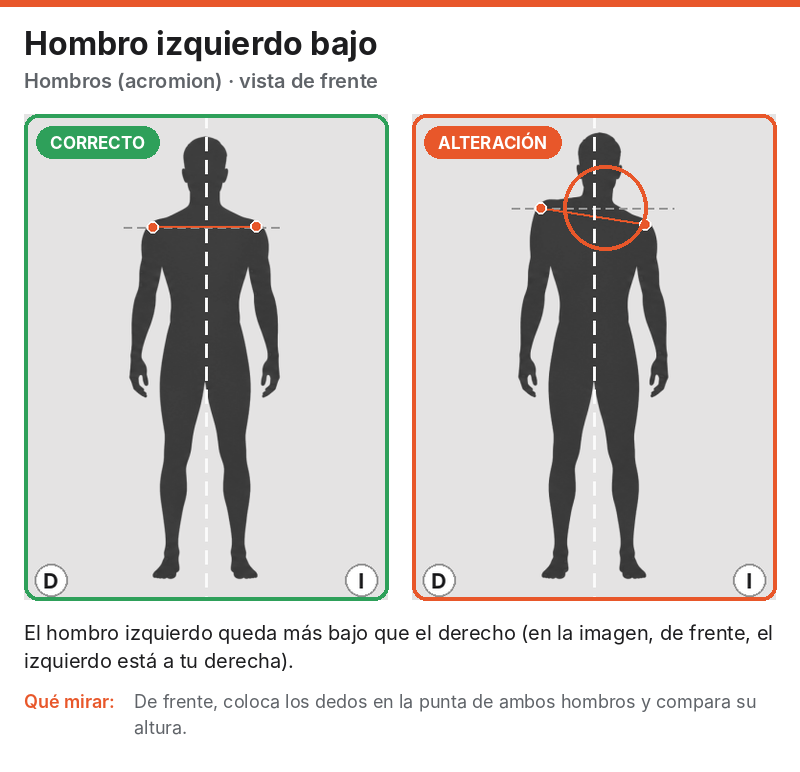
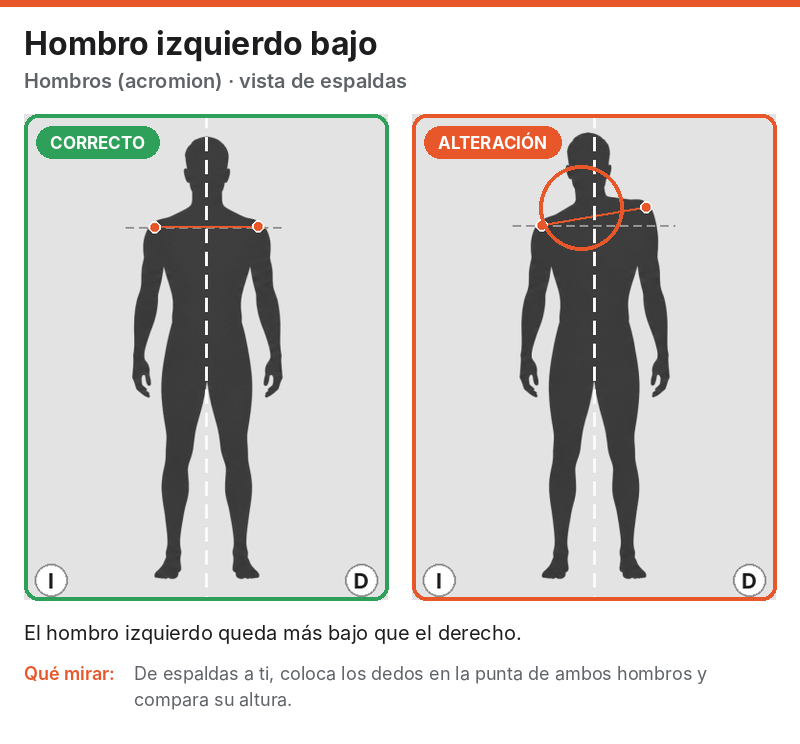
Postural: GIFs de acromion y crestas en vista de espaldas (lado correcto)
Claude-Session: https://claude.ai/code/session_013ryJL4SVr4tgtiY5hLj1jK

diff --git a/index.html b/index.html
@@ -83,7 +83,7 @@
     <p class="portada-lema">Evalúa tu punto de partida. Mide tu cambio.</p>
     <div class="portada-cta">
       <a class="btn" href="modules/antropometria/index.html">Evaluación antropométrica</a>
-      <a class="btn ghost" href="modules/postural/index.html?v=202611130400">Evaluación postural</a>
+      <a class="btn ghost" href="modules/postural/index.html?v=202611130450">Evaluación postural</a>
     </div>
     <a class="desliza" href="#panel" aria-label="Ver tu panel">
       <span>Tu panel</span>
@@ -116,7 +116,7 @@
         <div id="antro"></div>
       </section>
       <section>
-        <div class="sec-head"><h2>Postura</h2><a href="modules/postural/index.html?v=202611130400">Repetir test →</a></div>
+        <div class="sec-head"><h2>Postura</h2><a href="modules/postural/index.html?v=202611130450">Repetir test →</a></div>
         <div id="postural"></div>
       </section>
     </div>
@@ -269,7 +269,7 @@
     }
     post.sort((a, b) => new Date(a.fecha) - new Date(b.fecha));
     if (!post.length) {
-      $("#postural").innerHTML = vacio("Haz la evaluación postural para conocer tus desequilibrios y seguir cómo los corriges.", "modules/postural/index.html?v=202611130400", "Hacer evaluación");
+      $("#postural").innerHTML = vacio("Haz la evaluación postural para conocer tus desequilibrios y seguir cómo los corriges.", "modules/postural/index.html?v=202611130450", "Hacer evaluación");
     } else {
       const primero = post[0], ultimo = post.at(-1);
       const nivel = ultimo.nota >= 7 ? 2 : ultimo.nota >= 5 ? 1 : 0;

diff --git a/modules/postural/postural.js b/modules/postural/postural.js
@@ -1,4 +1,4 @@
-import { SECTIONS, SIDES, ALL_ZONES, MAX_POINTS, computeScore, selectedOptions, optionLabel, alteredZoneCount } from "./tests.js?v=202611130400";
+import { SECTIONS, SIDES, ALL_ZONES, MAX_POINTS, computeScore, selectedOptions, optionLabel, alteredZoneCount } from "./tests.js?v=202611130450";
 import { saveScore, getScores, scoreLabel } from "../../shared/scores.js?v=202611052135";
 import { marcarPendiente, quitarPendiente, montarTick } from "../../shared/perfil.js";
 
@@ -43,7 +43,7 @@ function circle(zone, value, label) {
 }
 
 // Botón "Ver ejemplo": despliega el GIF de la alteración (en bilaterales, izquierda y derecha).
-const GIF_V = "202611130400";
+const GIF_V = "202611130450";
 // Solo un ejemplo abierto a la vez: al abrir uno se cierra el anterior.
 let demoAbierto = null;
 function demo(opt, sides) {

diff --git a/analisis.html b/analisis.html
@@ -100,7 +100,7 @@
   </nav>
 
   <script type="module">
-    import { analizar, perfilRutina, guardarPerfilRutina, series, comparar, evolucionPostural, proximaEvaluacion, CORRECTIVOS } from "./shared/analisis.js?v=202611130400";
+    import { analizar, perfilRutina, guardarPerfilRutina, series, comparar, evolucionPostural, proximaEvaluacion, CORRECTIVOS } from "./shared/analisis.js?v=202611130450";
     import { ACTIVIDAD } from "./shared/plan.js?v=202611130030";
     import { sincronizar, evaluaciones, rondaEnCurso } from "./shared/evaluaciones.js?v=202611130100";
     import { calcularTodo, leerPreferencias, necesitaPreferencias } from "./shared/motor.js?v=202611130230";

diff --git a/modules/postural/index.html b/modules/postural/index.html
@@ -58,6 +58,6 @@
   </main>
 
 
-  <script type="module" src="./postural.js?v=202611130400"></script>
+  <script type="module" src="./postural.js?v=202611130450"></script>
 </body>
 </html>
